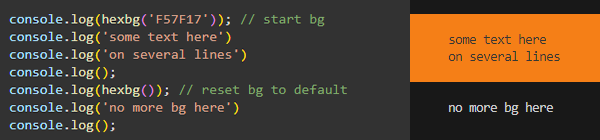
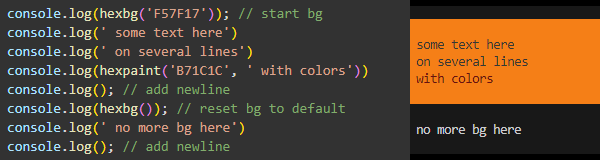
support nested colors

diff --git a/src/hexpaint.ts b/src/hexpaint.ts
@@ -1,32 +1,40 @@
+
+/** stack of currently set foreground color codes */
+let fgStack: string[] = [];
+/** stack of currently set background color codes */
+let bgStack: string[] = [];
+
 /**
- * Wrap string with ANSI escape codes to colorize text color
- * - if called with color and message - wraps message with rgb-color ANSI codes
+ * Set text color, using ANSI escape codes
+ * - if called without message, just with color, then starts given text color
  * - if called with no arguments, then resets text color to default
- * - if called without message, then starts with given text color
+ * - if called with color and message - wraps message with rgb-color ANSI codes
  * @param hex color like `#ffffff` or just `ffffff`
  * @param message any kind of message, will be casted to string
  */
 export function hexpaint(hex?: string, message?: any) {
-  if (!hex) return '\x1b[39m';
+  if (!hex) return resetFg();
   const [r, g, b] = hexToRgb(hex);
   const colorCode = `\x1b[38;2;${r};${g};${b}m`;
+  fgStack.push(colorCode);
   if ((arguments.length === 1)) return colorCode;
-  return colorCode + String(message) + '\x1b[39m';
+  return colorCode + String(message) + resetFg();
 }
 /**
- * Wrap string with ANSI escape codes to colorize background
- * - if called with color and message - wraps message with rgb-background ANSI codes
+ * Set background color, using ANSI escape codes
+ * - if called without message, just with color, then starts given given background color
  * - if called with no arguments, then resets background color to default
- * - if called without message, then starts with given given background color
+ * - if called with color and message - wraps message with rgb-background ANSI codes
  * @param hex color like `#ffffff` or just `ffffff`
  * @param message any kind of message, will be casted to string
  */
 export function hexbg(hex?: string, message?: any) {
-  if (!hex) return '\x1b[49m';
+  if (!hex) return resetBg();
   const [r, g, b] = hexToRgb(hex);
   const colorCode = `\x1b[48;2;${r};${g};${b}m`;
+  bgStack.push(colorCode);
   if ((arguments.length === 1)) return colorCode;
-  return colorCode + String(message) + '\x1b[49m';
+  return colorCode + String(message) + resetBg();
 }
 /** Put ANSI code for reset text formatting to default */
 export function hexreset() {
@@ -43,6 +51,20 @@ export function hexToRgb(hex: string) {
   var g = (bigint >> 8) & 255;
   var b = bigint & 255;
   return [r, g, b];
+}
+/** Returns ANSI code of previously set foreground color.
+ * If no color was set - returns `ResetTextColor` ANSI code */
+function resetFg() {
+  if (fgStack.length) fgStack.pop();
+  if (fgStack.length) return fgStack[fgStack.length - 1];
+  return '\x1b[39m';
+}
+/** Returns ANSI code of previously set background color.
+ * If no color was set - returns `ResetBackground` ANSI code */
+function resetBg() {
+  if (bgStack.length) bgStack.pop();
+  if (bgStack.length) return bgStack[bgStack.length - 1];
+  return '\x1b[49m';
 }
 
 export default hexpaint;

diff --git a/src/demo.ts b/src/demo.ts
@@ -11,26 +11,49 @@ console.log(hexbg(
 console.log();
 
 console.log(hexbg('F57F17')); // start bg
-console.log('some text here')
-console.log('on several lines')
-console.log(hexpaint('B71C1C', 'with colorized text'))
-console.log(); // additional newline
+console.log(' some text here')
+console.log(' on several lines')
+console.log(hexpaint('B71C1C', ' with colors'))
+console.log(); // add newline
 console.log(hexbg()); // reset bg to default
-console.log('no more bg here')
-console.log();
+console.log(' no more bg here')
+console.log(); // add newline
 
 
 console.log(
   hexpaint('689F38'), // start text color
-  'some text here \n', // add new line
-  'on several lines \n',
+  ' some text here \n', // add new line
+  ' on several lines \n',
   hexpaint('0097A7'), // start another text color
   'Here starts another color \n',
-  hexpaint(), // reset text color to default
+  ` add some ${hexbg('#E65100', ' bg ')} here\n`,
+  hexpaint(), // back to previous text color
+  'previous text color\n',
+  hexpaint(''), // reset text color to default
   'default text color'
 )
 
 console.log();
 console.log(hexbg('689F38'), 23, 'some text', true, hexbg());
+
+console.log(
+  'default foreground',
+  hexpaint('7CB342'), 'one',
+  hexpaint('FFA000'), 'two',
+  hexpaint('7986CB'), 'tree',
+  hexpaint(), 'two again',
+  hexpaint(), 'one again',
+  hexpaint(), 'default again',
+)
+console.log(
+  'default back',
+  // hexpaint('000000'),
+  hexbg('33691E'), 'one',
+  hexbg('E65100'), 'two',
+  hexbg('4527A0'), 'tree',
+  hexbg(), 'two again',
+  hexbg(), 'one again',
+  hexbg(), 'default again',
+)
 
 

diff --git a/README.md b/README.md
@@ -1,6 +1,6 @@
 # hexpaint
 
-Colorize terminal output with ANSI escape codes, using HEX colors. Minimalistic chunk of 'chalk' or 'ansi-colors'. It only colorize text or background with HEX color notation, nothing more! Minified JS takes only 0.6K.
+Colorize terminal output with ANSI escape codes, using HEX colors. Minimalistic chunk of 'chalk' or 'ansi-colors'. It only colorize text or background with HEX color notation, nothing more! Minified JS takes less than 1K. Correctly treats nested colors.
 
 ![hexpaint-wrap-bg    ](https://github.com/m-kant/hexpaint/raw/main/docs/hexpaint-wrap-bg.png)
 ![hexpaint-open-codes ](https://github.com/m-kant/hexpaint/raw/main/docs/hexpaint-open-codes.png)
